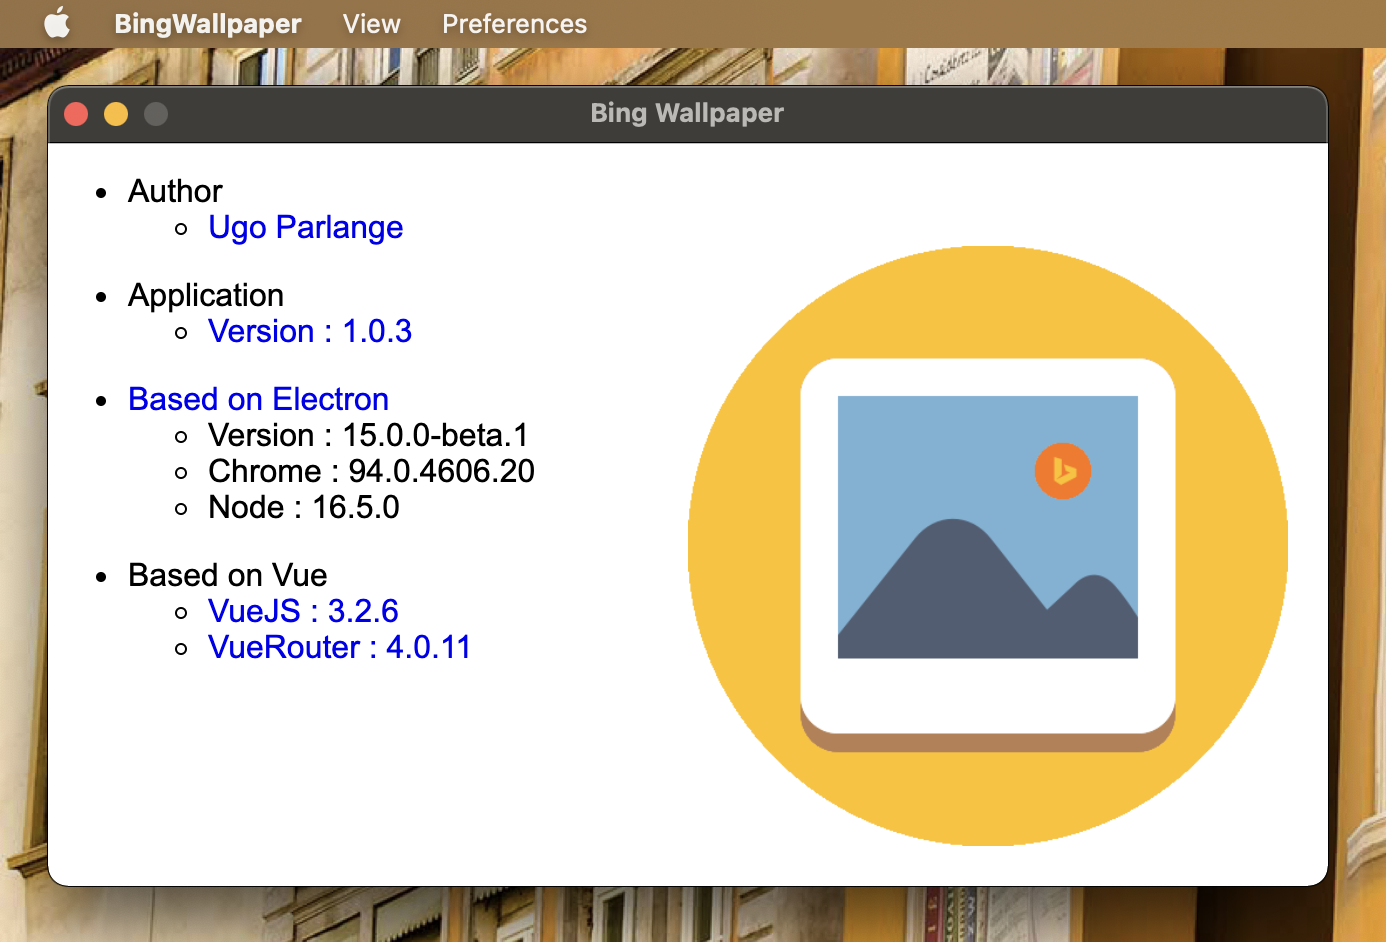
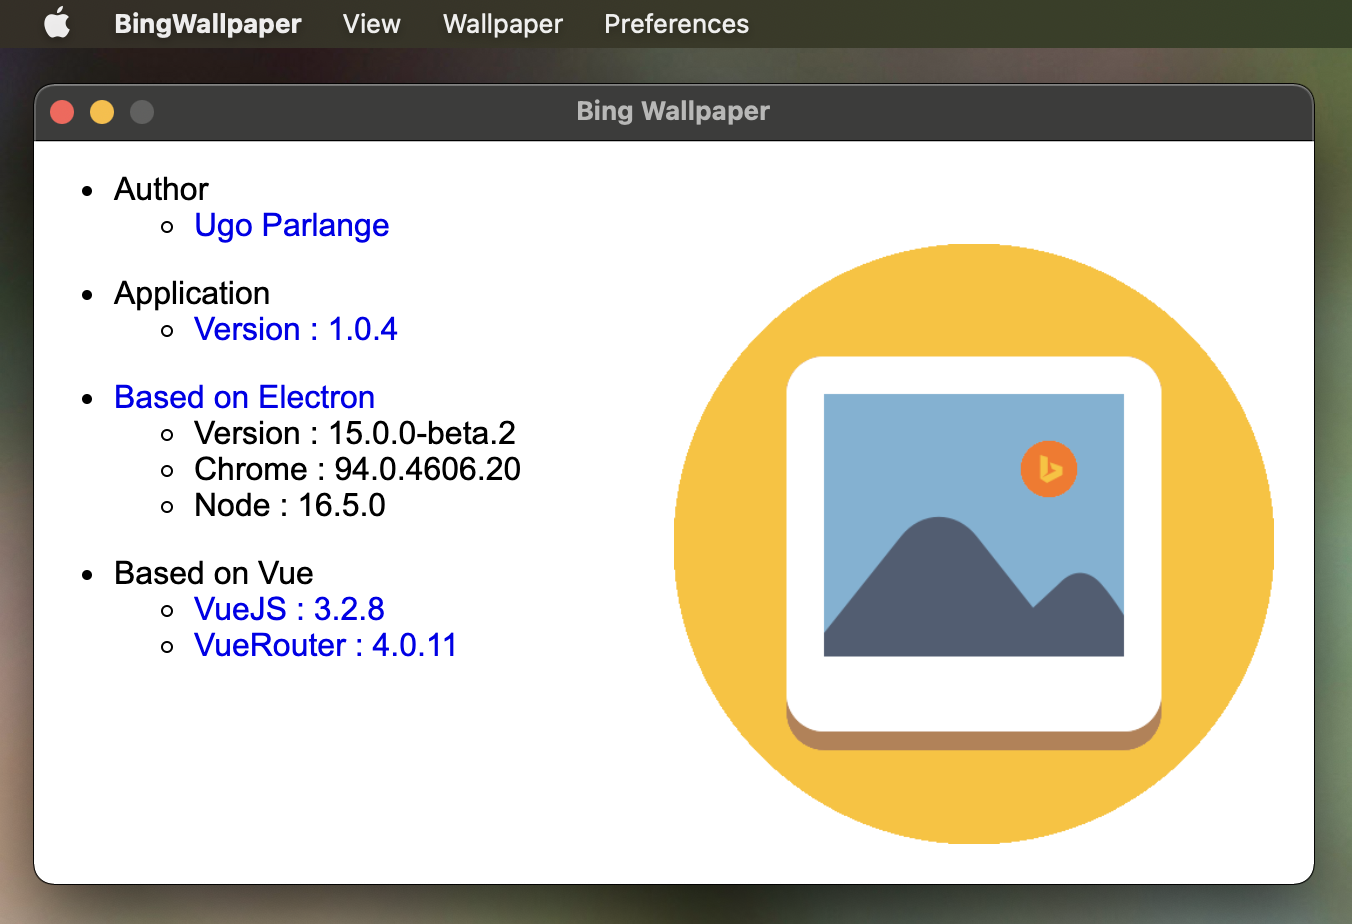
Release 1.0.4

diff --git a/README.md b/README.md
@@ -3,15 +3,15 @@
 * This application is a wallpaper manager
 * Originally planned to retrieve the daily [Bing Wallpaper](https://www.bing.com/)
 * You can define your custom wallpaper by drag and dropping an image on the application main screen
-* Multi-language support (French, English) with auto-detection and fallback to English 
+* Multi-language support (French, English, Spanish) with auto-detection and fallback to English 
 * User preferences support (last displayed view, language, launch at startup)
 * Online / Offline support
 
 # Downloads
 
-* [MacOS (Intel) : BingWallpaper-1.0.3.dmg](https://github.com/uparlange/bing-wallpaper/releases/download/v1.0.3/BingWallpaper-1.0.3.dmg)
-* [MacOS (M1) : BingWallpaper-1.0.3-arm64.dmg](https://github.com/uparlange/bing-wallpaper/releases/download/v1.0.3/BingWallpaper-1.0.3-arm64.dmg)
-* [Windows (x64) : BingWallpaper-1.0.3-nsis64.exe](https://github.com/uparlange/bing-wallpaper/releases/download/v1.0.3/BingWallpaper-1.0.3-nsis64.exe)
+* [MacOS (Intel) : BingWallpaper-1.0.4.dmg](https://github.com/uparlange/bing-wallpaper/releases/download/v1.0.4/BingWallpaper-1.0.4.dmg)
+* [MacOS (M1) : BingWallpaper-1.0.4-arm64.dmg](https://github.com/uparlange/bing-wallpaper/releases/download/v1.0.4/BingWallpaper-1.0.4-arm64.dmg)
+* [Windows (x64) : BingWallpaper-1.0.4-nsis64.exe](https://github.com/uparlange/bing-wallpaper/releases/download/v1.0.4/BingWallpaper-1.0.4-nsis64.exe)
 * Linux : Todo, maybe ....
 
 # Screenshots
